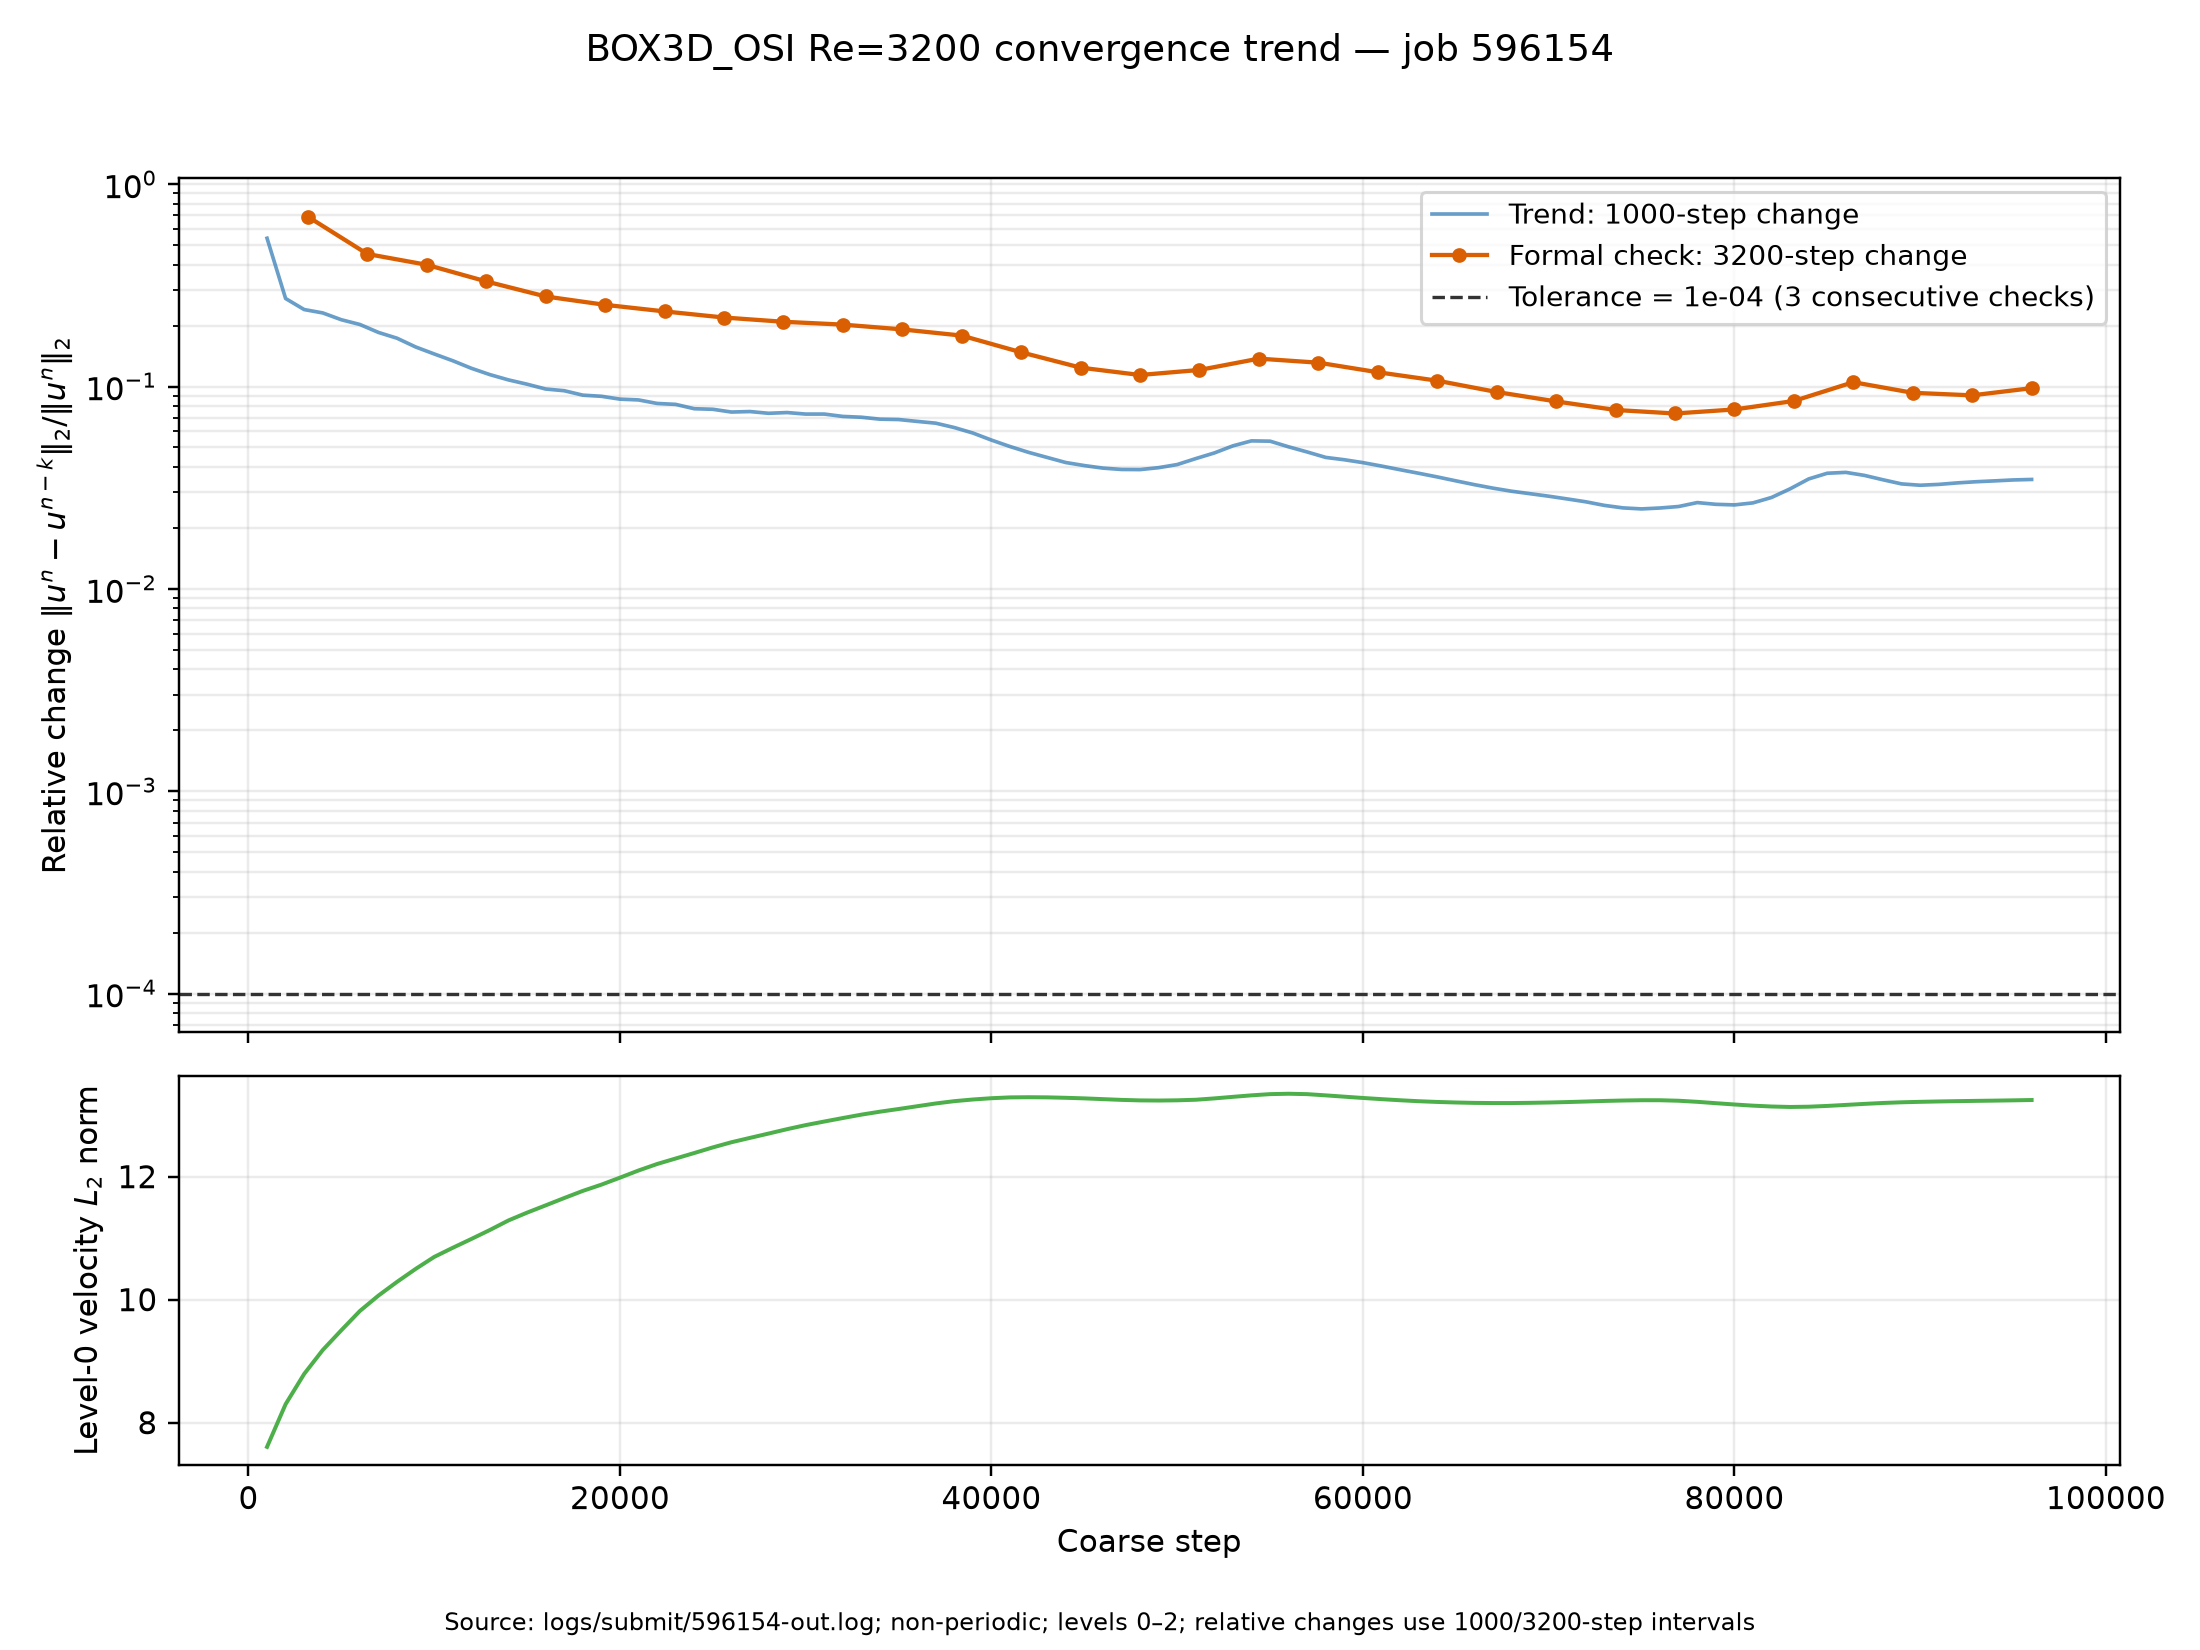
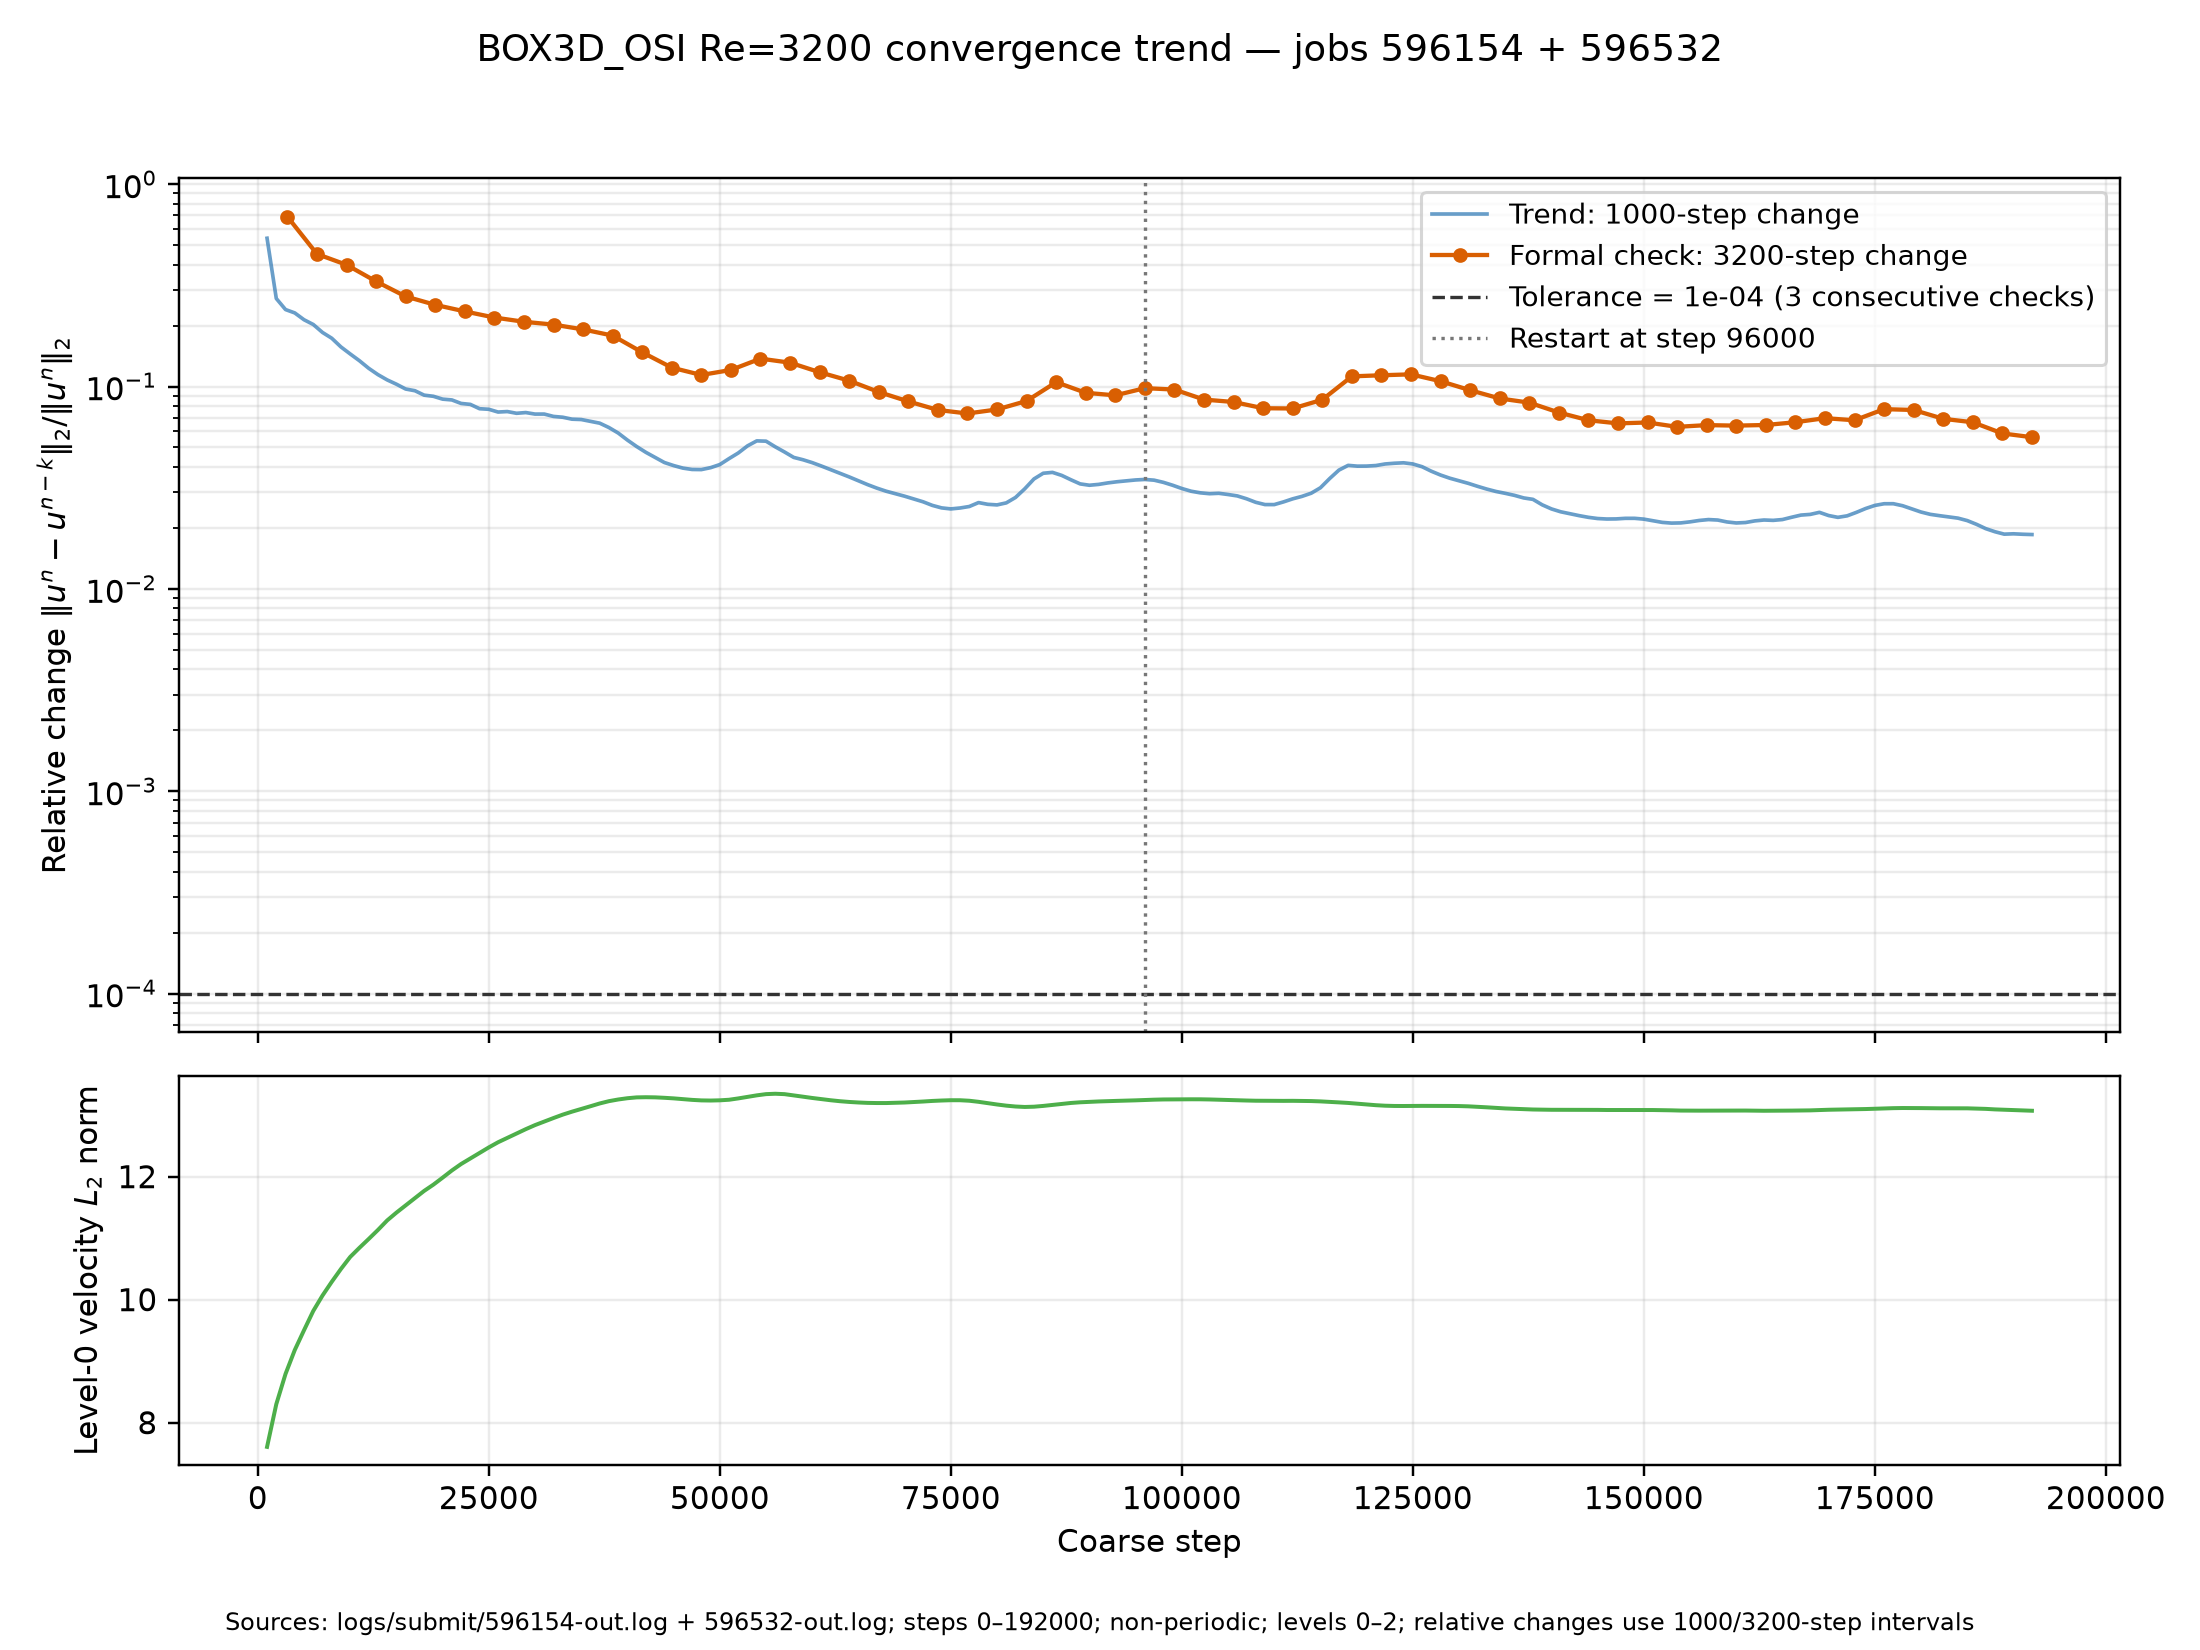
before codex

diff --git a/projects/3Dcases/Computing_performance_test/BOX3D_OSI/data_post_processing/plot_596154_convergence.py b/projects/3Dcases/Computing_performance_test/BOX3D_OSI/data_post_processing/plot_596154_convergence.py
@@ -1,5 +1,5 @@
 #!/usr/bin/env python3
-"""绘制作业 596154（Re=3200）的 level-0 速度收敛趋势。"""
+"""绘制作业 596154 和续跑作业 596532（Re=3200）的收敛趋势。"""
 
 import csv
 import re
@@ -9,7 +9,10 @@ import matplotlib.pyplot as plt
 
 
 CASE = Path(__file__).resolve().parents[1]
-LOG = CASE / "logs" / "submit" / "596154-out.log"
+LOGS = [
+    CASE / "logs" / "submit" / "596154-out.log",
+    CASE / "logs" / "submit" / "596532-out.log",
+]
 OUT = CASE / "data_post_processing" / "596154_Re3200_convergence.png"
 CSV_OUT = CASE / "data_post_processing" / "596154_Re3200_convergence.csv"
 
@@ -27,27 +30,31 @@ FORMAL = re.compile(
 
 
 def read_records():
-    trend_records = []
-    formal_records = []
-    for line in LOG.read_text(errors="replace").splitlines():
-        match = TREND.search(line)
-        if match:
-            step, interval, relative, velocity, delta = match.groups()
-            trend_records.append(
-                (int(step), int(interval), float(relative), float(velocity), float(delta))
-            )
-        match = FORMAL.search(line)
-        if match:
-            step, interval, relative, velocity, delta, tolerance, count, required, converged = match.groups()
-            formal_records.append(
-                (
+    # 续跑日志可能与前一段在重启步附近重叠，按绝对 step 去重。
+    trend_by_step = {}
+    formal_by_step = {}
+    for log in LOGS:
+        if not log.exists():
+            raise SystemExit(f"Missing log: {log}")
+        for line in log.read_text(errors="replace").splitlines():
+            match = TREND.search(line)
+            if match:
+                step, interval, relative, velocity, delta = match.groups()
+                trend_by_step[int(step)] = (
+                    int(step), int(interval), float(relative), float(velocity), float(delta)
+                )
+            match = FORMAL.search(line)
+            if match:
+                step, interval, relative, velocity, delta, tolerance, count, required, converged = match.groups()
+                formal_by_step[int(step)] = (
                     int(step), int(interval), float(relative), float(velocity),
                     float(delta), float(tolerance), int(count), int(required),
                     bool(int(converged)),
                 )
-            )
+    trend_records = [trend_by_step[step] for step in sorted(trend_by_step)]
+    formal_records = [formal_by_step[step] for step in sorted(formal_by_step)]
     if not trend_records or not formal_records:
-        raise SystemExit(f"No convergence records found in {LOG}")
+        raise SystemExit("No convergence records found")
     return trend_records, formal_records
 
 
@@ -79,6 +86,10 @@ ax_change.axhline(
     tolerance, color="#333333", linestyle="--", linewidth=1.1,
     label=f"Tolerance = {tolerance:.0e} (3 consecutive checks)",
 )
+ax_change.axvline(
+    96000, color="#777777", linestyle=":", linewidth=1.1,
+    label="Restart at step 96000",
+)
 ax_change.set_ylabel(r"Relative change $\|u^n-u^{n-k}\|_2/\|u^n\|_2$")
 ax_change.grid(True, which="both", alpha=0.25)
 ax_change.legend(fontsize=9)
@@ -91,10 +102,11 @@ ax_norm.set_xlabel("Coarse step")
 ax_norm.set_ylabel(r"Level-0 velocity $L_2$ norm")
 ax_norm.grid(True, alpha=0.25)
 
-fig.suptitle("BOX3D_OSI Re=3200 convergence trend — job 596154")
+fig.suptitle("BOX3D_OSI Re=3200 convergence trend — jobs 596154 + 596532")
 fig.text(
     0.5, 0.012,
-    "Source: logs/submit/596154-out.log; non-periodic; levels 0–2; "
+    "Sources: logs/submit/596154-out.log + 596532-out.log; steps 0–192000; "
+    "non-periodic; levels 0–2; "
     "relative changes use 1000/3200-step intervals",
     ha="center", fontsize=8,
 )
